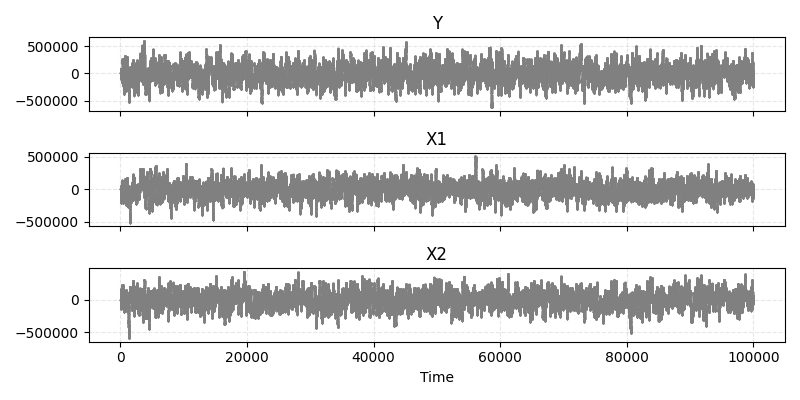
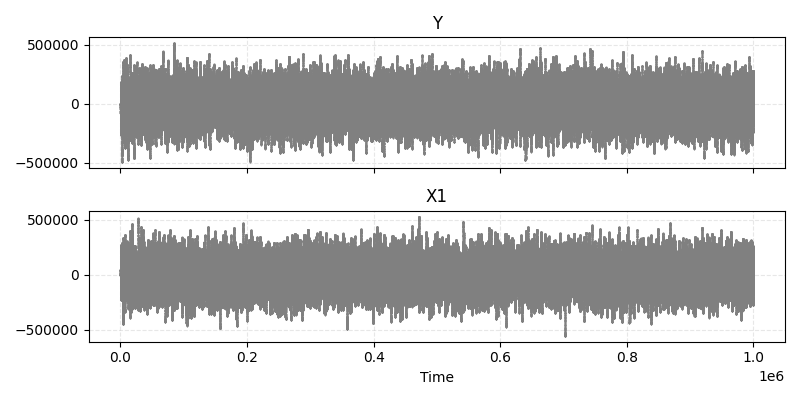
End of report 2

diff --git a/scripts/simulate_ARIMAX.py b/scripts/simulate_ARIMAX.py
@@ -5,6 +5,7 @@ import matplotlib.pyplot as plt
 import statsmodels.api as sm
 import pmdarima as pm
 import scipy.stats as stats
+import seaborn as sns
 
 path = r"C:\Users\sina.mokhtar\Documents\problems\Copula_AD"
 
@@ -135,17 +136,17 @@ def extract_arima_coefficients(y_series):
 eq_raw_afi = read_time_series(file_name = r"data\fdsnws-dataselect_2024-10-22t00_42_55z_AFI.csv")
 
 # Extract ARIMA coefficients
-coefficients = extract_arima_coefficients(eq_raw_afi["Sample"])
+# coefficients = extract_arima_coefficients(eq_raw_afi["Sample"])
 # select all exept the last one
 
-coefficients[-1]
+#coefficients[-1]
 # >>> coefficients
 # ar.L1     2.562053e+00
 # ar.L2    -2.405983e+00
 # ar.L3     1.064306e+00
 # ar.L4    -2.215547e-01
 # sigma2    1.979285e+06
-v = coefficients[-1]
+v = 1.979285e+06
 
 # simulate data
 simulated_data = simulate_arima_exog(
@@ -153,65 +154,115 @@ simulated_data = simulate_arima_exog(
     c=0, 
     phi=np.array([2.562053, -2.405983, 1.064306, -.2215547]),  # AR coefficients
     theta=np.array([0]),  # MA coefficients
-    beta=np.array([0.5, 0.8]),  # Exogenous variable coefficients
-    omega_mean=np.array([0, 0, 0]),  # Mean of error terms
-    omega_Sigma=np.array([[v, 0.7, 0.7], 
-                          [0.7, v, 0.7], 
-                          [0.7, 0.7, v]]),  # Covariance of error terms
-    initial_state=np.array([1, 1, 1, 1, 1]),  # Initial state
-    n=100000,  # Number of time steps
+    beta=np.array([0.1]),  # Exogenous variable coefficients
+    omega_mean=np.array([0, 0]),  # Mean of error terms
+    omega_Sigma=np.array([[v, 0.7], 
+                          [0.7, v]]),  # Covariance of error terms
+    initial_state=np.array([1, 1, 1, 1]),  # Initial state
+    n=1000000,  # Number of time steps
     seed=534
 )
 
-plot_time_series(simulated_data, titles=["Y", "X1", "X2" ])
+plot_time_series(simulated_data, titles=["Y", "X1"])
 
 earthquake_data = add_earthquakes(simulated_data, num_earthquakes=3, scale=20000, duration=200)
-plot_time_series(earthquake_data, titles=["Y", "X1", "X2" ])
+plot_time_series(earthquake_data, titles=["Y", "X1" ])
 
  
 sigma2_values = compute_sigma2_values(earthquake_data, window_size=500, overlap_size=100, order=(1,1,1))
-plot_time_series(sigma2_values, titles=["Y", "X1", "X2"])
+plot_time_series(sigma2_values, titles=["Y", "X1"])
 
 
 
-def plot_anomalies_histogram_chi2(sigma2_values, dof):
+def plot_anomalies_histogram_chi2(sigma2_values):
     # Compute 95% confidence intervals using Chi-Square distribution
-    confidence_intervals = []
-
-
-    for i in range(sigma2_values.shape[1]):
-        mean = np.mean(sigma2_values[:, i])
-        lower_bound = stats.chi2.ppf(0.025, df=dof) * (mean / dof)
-        upper_bound = stats.chi2.ppf(0.975, df=dof) * (mean / dof)
-        confidence_intervals.append((lower_bound, upper_bound))
-
-    # Identify anomalies (values outside the confidence interval)
-    anomalies = []
-    for i in range(sigma2_values.shape[1]):
-        lower, upper = confidence_intervals[i]
-        anomalies.append((sigma2_values[:, i] < lower) | (sigma2_values[:, i] > upper))
-
     # Plot histograms for each column
-    fig, axes = plt.subplots(3, 1, figsize=(8, 12))
+    fig, axes = plt.subplots(2, 1, figsize=(8, 6))
 
     for i, ax in enumerate(axes):
         ax.hist(sigma2_values[:, i], bins=300, alpha=0.7, color='blue', label=f'Column {i+1}')
-        ax.axvline(confidence_intervals[i][0], color='red', linestyle='dashed', label='Lower 95% CI (Chi²)')
-        ax.axvline(confidence_intervals[i][1], color='green', linestyle='dashed', label='Upper 95% CI (Chi²)')
-        ax.set_title(f'Histogram of Column {i+1} (Chi² Distribution)')
         ax.set_xlabel('Value')
         ax.set_ylabel('Frequency')
         ax.legend()
-
+        ax.set_xlim(0, 2e8)
     plt.tight_layout()
     plt.show()
 
 # Example usage:
-plot_anomalies_histogram_chi2(sigma2_values, dof=499)
+plot_anomalies_histogram_chi2(sigma2_values)
 
+h = sns.jointplot(x=sigma2_values[:, 1], y=sigma2_values[:, 0], kind='kde')
+h.set_axis_labels("X1", "Y")
+plt.show()
 
+# Convert to uniform distribution using empirical CDF
+U_x = stats.rankdata(sigma2_values[:, 0]) / (len(sigma2_values) + 1)
+U_y = stats.rankdata(sigma2_values[:, 1]) / (len(sigma2_values) + 1)
 
-plot_anomalies_histogram(sigma2_values)
+Z_x = stats.norm.ppf(U_x)
+Z_y = stats.norm.ppf(U_y)
+
+# Compute empirical correlation (copula correlation)
+copula_corr = np.corrcoef(Z_x, Z_y)[0, 1]
+
+# Step 3: Define Gaussian Copula Function
+def gaussian_copula_pdf(U_x, U_y, rho):
+    """Compute Gaussian copula density."""
+    norm_x = stats.norm.ppf(U_x)
+    norm_y = stats.norm.ppf(U_y)
+    joint_pdf = stats.multivariate_normal.pdf(
+        np.column_stack((norm_x, norm_y)),
+        mean=[0, 0],
+        cov=[[1, rho], [rho, 1]]
+    )
+    marginal_pdf_x = stats.norm.pdf(norm_x)
+    marginal_pdf_y = stats.norm.pdf(norm_y)
+    return joint_pdf / (marginal_pdf_x * marginal_pdf_y)
+
+# Compute Gaussian copula density
+copula_density = gaussian_copula_pdf(U_x, U_y, copula_corr)
+
+# Step 4: Visualize Copula Density
+plt.figure(figsize=(8, 6))
+scatter = plt.scatter(U_x, U_y, c=copula_density, cmap="coolwarm", edgecolors='k', alpha=0.75)
+plt.colorbar(scatter, label="Copula Density")
+plt.xlabel("U_x (Uniform Transformed)")
+plt.ylabel("U_y (Uniform Transformed)")
+plt.title("Gaussian Copula Density")
+plt.show()
+
+import numpy as np
+import scipy.stats as stats
+import seaborn as sns
+import matplotlib.pyplot as plt
+
+# Step 1: Convert to Uniform Marginals using Empirical CDF
+U_x = stats.rankdata(sigma2_values[:, 0]) / (len(sigma2_values) + 1)
+U_y = stats.rankdata(sigma2_values[:, 1]) / (len(sigma2_values) + 1)
+
+# Step 2: Estimate Gumbel Copula Parameter (Theta)
+tau, _ = stats.kendalltau(U_x, U_y)  # Estimate Kendall's Tau
+theta = 1 / (1 - tau)  # Gumbel parameter (theta >= 1)
+
+# Step 3: Define Gumbel Copula CDF
+def gumbel_copula_cdf(U_x, U_y, theta):
+    """Compute the Gumbel Copula CDF."""
+    U_x = np.clip(U_x, 1e-10, 1 - 1e-10)  # Avoid log(0)
+    U_y = np.clip(U_y, 1e-10, 1 - 1e-10)
+    W = (-np.log(U_x))**theta + (-np.log(U_y))**theta
+    return np.exp(-W**(1/theta))
+
+# Compute Gumbel Copula Values
+copula_cdf_values = gumbel_copula_cdf(U_x, U_y, theta)
+
+# Step 4: Visualize the Gumbel Copula
+plt.figure(figsize=(8, 6))
+scatter = plt.scatter(U_x, U_y, c=copula_cdf_values, cmap="coolwarm", edgecolors='k', alpha=0.75)
+plt.colorbar(scatter, label="Gumbel Copula CDF")
+plt.xlabel("U_x (Uniform Transformed)")
+plt.ylabel("U_y (Uniform Transformed)")
+plt.title("Gumbel Copula CDF (Upper Tail Dependence)")
+plt.show()
 
 
 # Convert data into a DataFrame for ARIMAX fitting
@@ -223,3 +274,52 @@ fitted_model.summary()
 df['y_fitted'] = fitted_model.fittedvalues
 
 
+
+# Function to generate correlated p-values using a Gaussian copula
+def generate_correlated_pvalues(n, rho):
+    """Generate n sets of correlated p-values with correlation rho."""
+    mean = [0, 0]  # Mean vector for multivariate normal
+    cov = [[1, rho],  # Covariance matrix (controls dependence)
+           [rho, 1]]
+    
+    
+    mvn_samples = np.random.multivariate_normal(mean, cov, size=n)
+    
+    # Convert normal samples to uniform (via CDF)
+    uniform_samples = stats.norm.cdf(mvn_samples)
+    
+    return uniform_samples  
+
+# Function to compute combined p-value using Gaussian copula
+def copula_combined_pvalue(p_values):
+    """Compute the combined p-value using a Gaussian copula."""
+    k = len(p_values)  # Number of p-values
+    empirical_cdf = np.mean(np.all(p_values >= p_values, axis=1))  # Empirical copula
+    return 1 - empirical_cdf
+
+# Generate 5 sets of correlated p-values with ρ=0.5
+np.random.seed(42)
+p_values_sample = generate_correlated_pvalues(n=5, rho=0.5)
+
+# Compute combined p-value for each time step
+combined_p_values = np.array([copula_combined_pvalue(p) for p in p_values_sample])
+
+# Set anomaly threshold
+alpha = 0.05  # Significance level
+
+# Identify anomalies
+anomalies = combined_p_values < alpha
+
+# Display results
+import pandas as pd
+import ace_tools as tools
+
+df = pd.DataFrame({
+    "p1": p_values_sample[:, 0],
+    "p2": p_values_sample[:, 1],
+    "p3": p_values_sample[:, 2],
+    "Combined p-value": combined_p_values,
+    "Anomaly?": anomalies
+})
+
+tools.display_dataframe_to_user(name="Copula-Based p-Value Pooling", dataframe=df)
